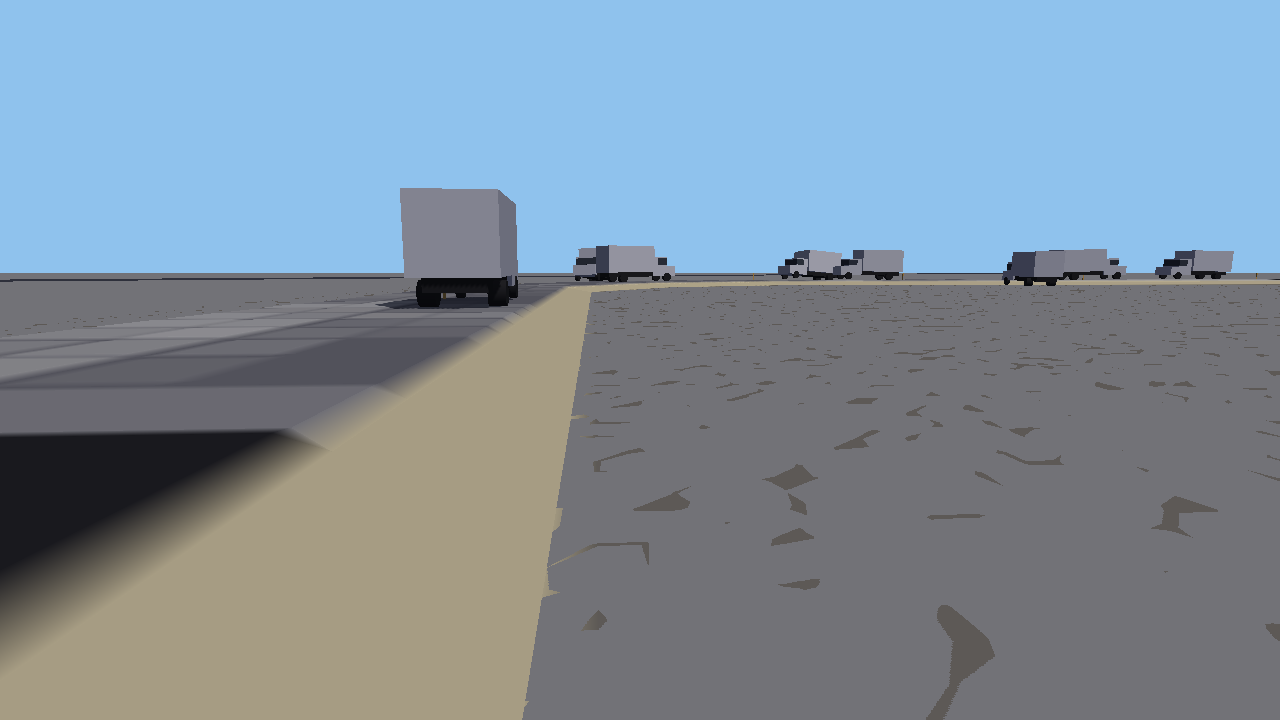
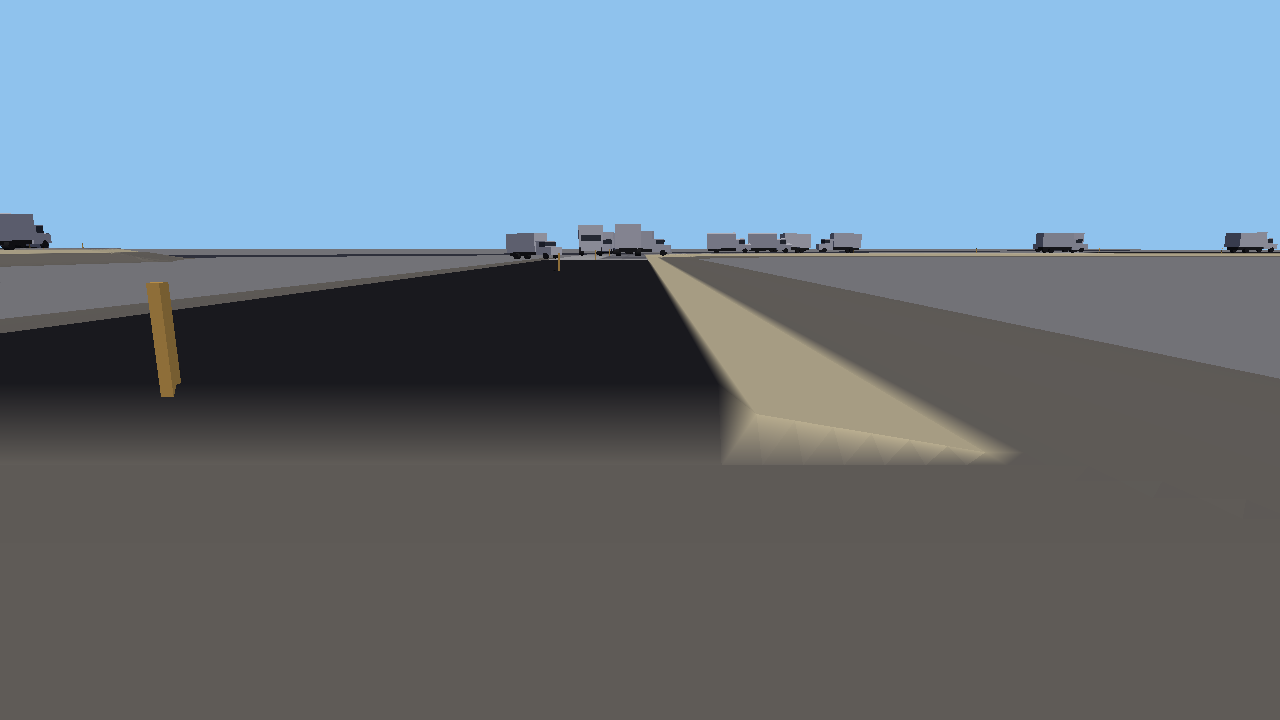
The second spin-out road is 40 m paved, 40 m loose gravel, then the bend; holes may go 9 m deep

diff --git a/Assets/Scripts/Plot.cs b/Assets/Scripts/Plot.cs
@@ -361,12 +361,12 @@ public class Plot : MonoBehaviour
             case WearDirt: case WearGravel: case WearDirtPaved: case WearGravelPaved: WearGround(t); break;
             case SpinOut2:
                 {
-                    // Low ground, so trucks come onto it almost level. Three paved sections to
-                    // get up to speed on, two of loose gravel, a bend to the right of 90
-                    // degrees in three shorter ones, two more of loose gravel, and three paved
+                    // Low ground, so trucks come onto it almost level. Two paved sections (40 m)
+                    // to get up to speed on, two of loose gravel (40 m), a bend to the right of
+                    // 90 degrees in three shorter ones, two more of loose gravel, and two paved
                     // again, so that trucks from the other end meet the same thing.
                     Vector3 at = new Vector3(30f, 0.45f, -20f);     // just high enough that its shoulders stand clear of the yard
-                    float[] turn = { 0, 0, 0, 0, 0, 30f, 30f, 30f, 0, 0, 0, 0, 0 };
+                    float[] turn = { 0, 0, 0, 0, 30f, 30f, 30f, 0, 0, 0, 0 };
                     float heading = 0;
                     stakes.Add(at);
                     for (int k = 0; k < turn.Length; k++)
@@ -502,9 +502,9 @@ public class Plot : MonoBehaviour
         }
         if (id == SpinOut2)
         {
-            // the three sections at each end are packed, paved and rolled
+            // the two sections at each end are packed, paved and rolled
             for (int i = 0; i < h.Length; i++)
-                if (gravel[i] > 0 && Section(origin.x + i % w * Cell, origin.z + i / w * Cell, out int link, out _, out _) && (link < 3 || link >= links.Count - 3)) { packed[i] = 100; top[i] = Rolled; }
+                if (gravel[i] > 0 && Section(origin.x + i % w * Cell, origin.z + i / w * Cell, out int link, out _, out _) && (link < 2 || link >= links.Count - 2)) { packed[i] = 100; top[i] = Rolled; }
         }
         if (WearRoad(id) >= 0)
         {
@@ -1301,7 +1301,7 @@ public class Plot : MonoBehaviour
             case 3: text = "Station 5: a finished road. Trucks drive it both ways."; break;
             case 4: text = "Station 5: a bad road. Trucks try it both ways."; break;
             case 5: text = "Wear: a finished road that the trucks wear out"; break;
-            case SpinOut: text = "Loose gravel round a bend, packed at each end.\nTrucks slide on it, and pack it as they go (truckPacking on F1).\nThe host's button above makes it loose again."; at = stakes[1] + Vector3.up * 2.2f; break;
+            case SpinOut: text = "ROAD 1: loose gravel round a bend, packed at each end.\nTrucks slide on it, and pack it as they go (truckPacking on F1).\nThe host's button above makes it loose again."; at = stakes[1] + Vector3.up * 2.2f; break;
             case PaintMarked: text = "Rolled asphalt, with the place for each line marked.\n8: the roller brush. Hold left click and drag for white, right click for yellow.\nT: tar spray, to cover paint. G: the grinder, to take it off.\nE by the paint truck drives it: left click its white nozzle, right click its yellow."; at = stakes[0] + new Vector3(0, 2.4f, 6f); break;
             case PaintPlain: text = "The same strip with nothing marked.\nA white line inside each edge, and a yellow one down the middle."; at = stakes[0] + new Vector3(0, 2.4f, 6f); break;
             case WearDirt: case WearGravel: case WearDirtPaved: case WearGravelPaved:
@@ -1310,7 +1310,7 @@ public class Plot : MonoBehaviour
                 text = id == WearDirt ? "Grade it (2) to mend it." : id == WearGravel ? "Grade (2) and gravel (3) mend it." : "Trucks come onto it at speed,\noff two sections of paved road.";
                 at = stakes[0] + new Vector3(0, 1.2f, -3f);
                 break;
-            case SpinOut2: text = "Three paved sections, then loose gravel: two sections straight, a bend, two more.\nTrucks reach it at speed. They pack it as they go.\nThe host's button above makes it loose again."; at = stakes[0] + new Vector3(0, 2.6f, 8f); break;
+            case SpinOut2: text = "ROAD 2: 40 m of paved road, then 40 m of loose gravel, then the bend.\nTrucks reach the gravel at speed. They pack it as they go.\nThe host's button above makes it loose again."; at = stakes[0] + new Vector3(0, 2.6f, 8f); break;
             case 6: text = "Hairpin: stakes set round the tightest turn allowed\nlevel it and gravel it; trucks try it as it is"; break;
             case 8: text = "A 14 degree climb, bare ground on its line.\nToo steep for a truck without gravel."; break;
             case 9: text = "The same 14 degree climb under loose gravel."; break;

diff --git a/Assets/Scripts/Tuning.cs b/Assets/Scripts/Tuning.cs
@@ -152,7 +152,7 @@ public class Tuning : ScriptableObject
     [Tooltip("Bare ground is cut this many times as deep as gravel each time.")]
     [Range(1, 10)] public float wearDirtCut = 6f;
     [Tooltip("The deepest a hole gets, below the road's line (m).")]
-    [Range(0.05f, 8f)] public float wearDeepest = 0.8f;
+    [Range(0.05f, 20f)] public float wearDeepest = 9f;
     [Tooltip("How high the Wear ground stands above the yard (m). Used when the ground is made again.")]
     [Range(2, 20)] public float wearHeight = 10f;
     [Tooltip("0: all damage comes from time spent on a square. 1: all of it comes from how hard each wheel lands. Between: a share of each.")]
